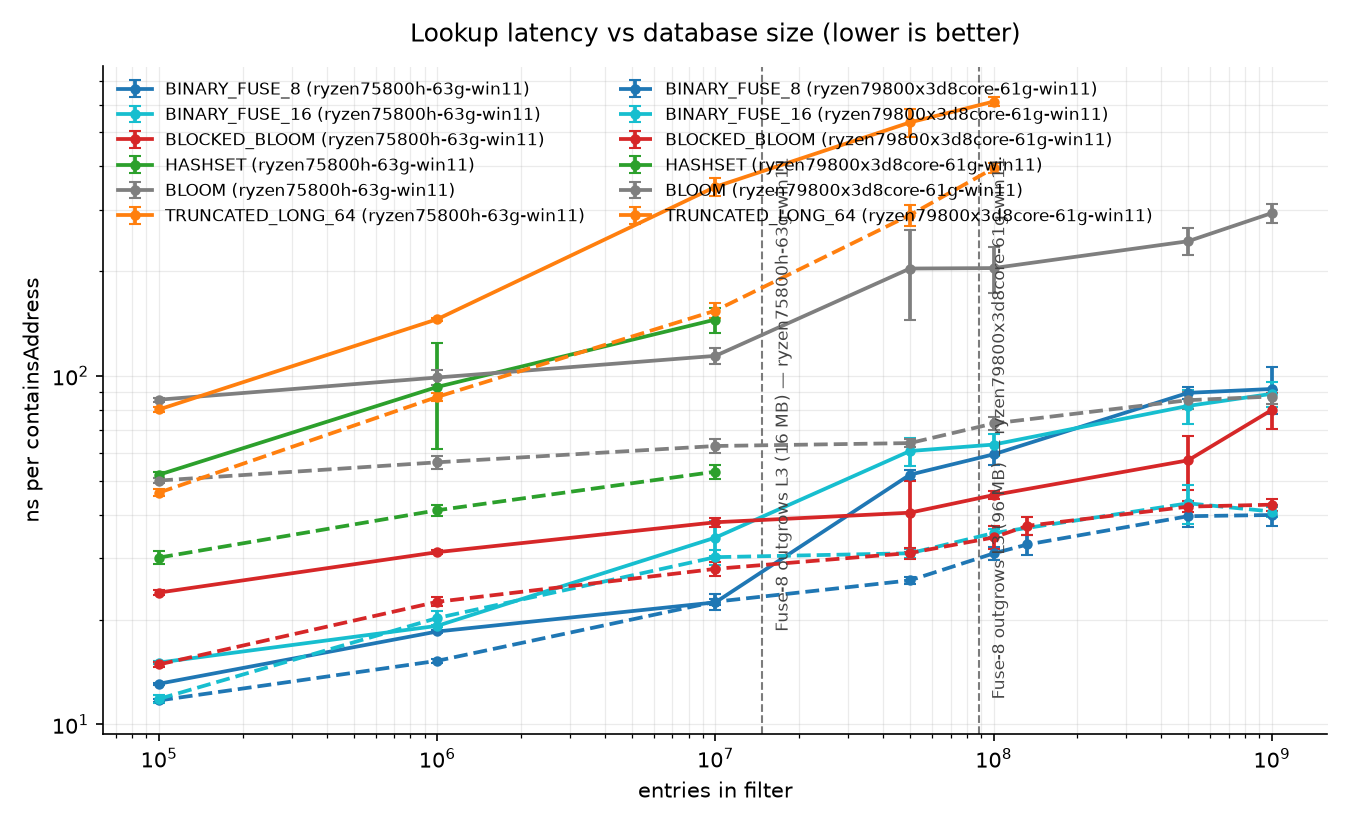
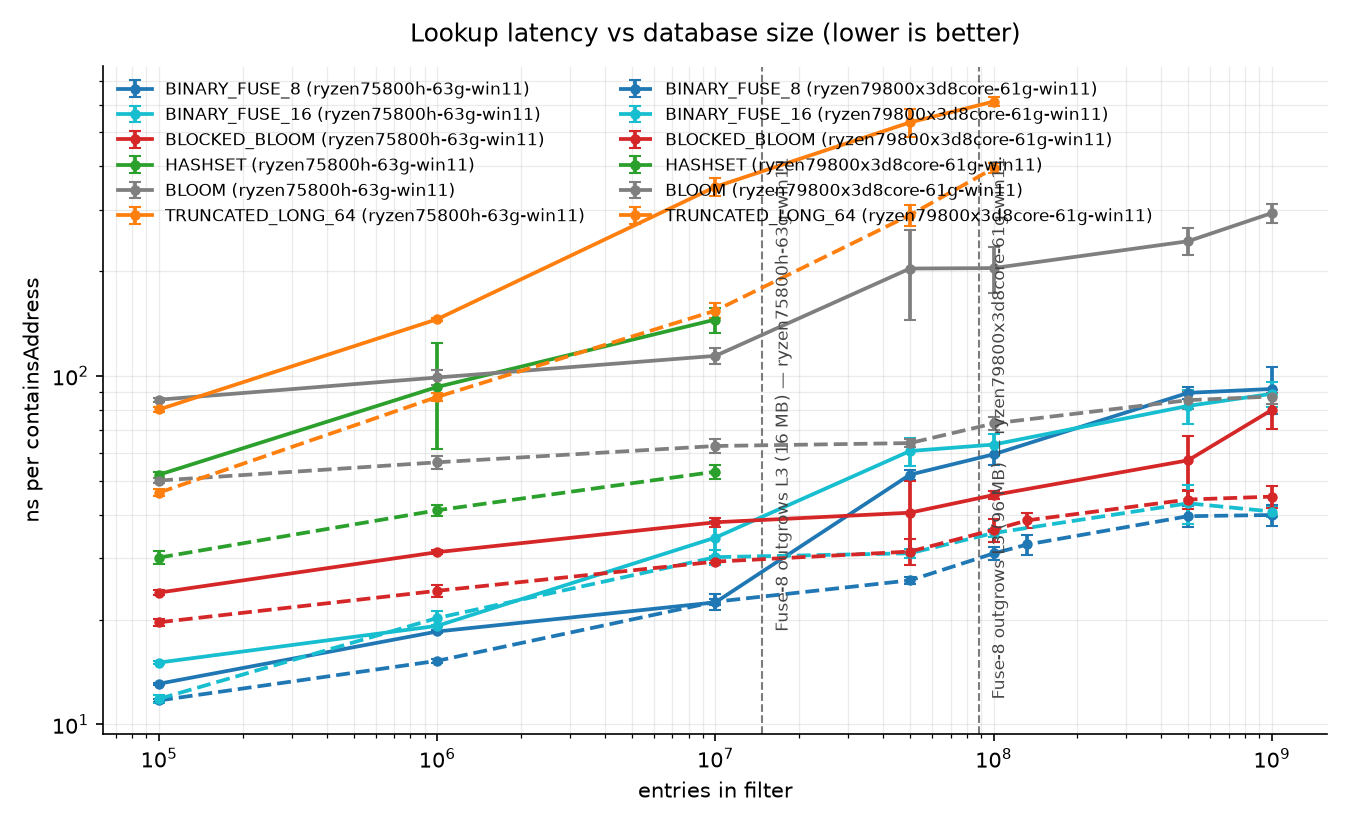
docs(measurements): fastrange re-run - GPU gains, CPU loses, k optimum lands on 6
Re-measured everything the fastrange sizing invalidated, on
ryzen79800x3d8core-61g-win11 / gfx1100. Fuse, Bloom, HashSet and Truncated were
not re-run; they are unaffected.

1. DID THE GPU 100 M POINT IMPROVE? YES - the hypothesis holds.

     entries  BINARY_FUSE_8   BLOCKED_BLOOM 2^n   BLOCKED_BLOOM fastrange
      10 M    0.298 +/- 0.007  0.187 +/- 0.017     0.202 +/- 0.008
     100 M    0.740 +/- 0.014  0.655 +/- 0.032     0.460 +/- 0.013   (-30 %)

   ratio 1.13x -> 1.61x at 100 M. Fuse-8 moved 0.300 -> 0.298 and 0.738 ->
   0.740 across the two runs - an unchanged control, as expected.

   This RETRACTS the previous commit's headline. "The advantage shrinks with
   size on RDNA3, so it is Ampere-specific" was an artefact of our own
   rounding: at 100 M the old geometry inflated the filter to 256 MiB
   (21.47 bits/entry) instead of 131 MiB (11.00). With correct sizing the
   advantage GROWS with filter size on RDNA3 too (1.48x -> 1.61x), same
   direction as NVIDIA (1.73x -> 2.23x). Only the magnitude still differs; the
   Infinity-Cache explanation is downgraded to an untested hypothesis, since
   the last explanation offered for an AMD anomaly was this same artefact.

2. WHERE IS THE k OPTIMUM AT A TRUE 11 BITS/ENTRY? k = 6, as predicted.

     k     4       5       6       7       8      10
     FPR 0.998 % 0.811 % 0.753 % 0.759 % 0.802 % 0.993 %

   k ~ 0.55 x bits/entry gives 6.05; measured optimum is 6. k=6 also has
[…]

Changed region(s): [[0.1244, 0.6667, 0.6844, 0.7879], [0.6844, 0.5758, 0.9644, 0.6667], [0.0933, 0.7879, 0.1556, 0.8182]]

diff --git a/docs/measurements/plot.py b/docs/measurements/plot.py
@@ -346,6 +346,19 @@ def inject(markdown: str, name: str, body: str) -> str:
     return f"{head}\n<!-- Generated by docs/measurements/plot.py — edit the CSV, not this block. -->\n\n{body}\n\n{tail}"
 
 
+def _latest_only(frame: pd.DataFrame, keys: list[str]) -> pd.DataFrame:
+    """Keep only the newest row per measurement point.
+
+    Superseded rows stay in the CSVs for provenance (see README: the blocked-Bloom geometry changed
+    on 2026-07-19, so every earlier blocked-Bloom row describes a differently sized filter). Without
+    this, ``pivot_table``'s ``mean`` would average the old and new geometry into a number that
+    describes neither — the same silent-blending failure the per-machine split exists to prevent.
+    """
+    if frame.empty or "date" not in frame:
+        return frame
+    return frame.sort_values("date").drop_duplicates(subset=keys, keep="last")
+
+
 def main() -> int:
     parser = argparse.ArgumentParser(description=__doc__)
     parser.add_argument("--machine-id", help="restrict to a single machine from machines.json")
@@ -358,6 +371,11 @@ def main() -> int:
     sizing = pd.read_csv(HERE / "filter_sizing.csv")
     build = pd.read_csv(HERE / "filter_build.csv")
     gpu = pd.read_csv(HERE / "gpu_filter_probe.csv")
+
+    # Re-measurements supersede earlier rows for the same point; keep only the newest of each.
+    lookup = _latest_only(lookup, ["machine_id", "backend", "entries"])
+    k_sweep = _latest_only(k_sweep, ["machine_id", "bits_per_entry_effective", "k"])
+    gpu = _latest_only(gpu, ["machine_id", "gpu", "filter", "entries"])
 
     if args.machine_id:
         machines = {k: v for k, v in machines.items() if k == args.machine_id}

diff --git a/docs/performance.md b/docs/performance.md
@@ -174,6 +174,12 @@ Same harness, Light DB, filter size pinned at 256 MiB (16.47 effective bits/entr
 |---|--:|--:|--:|--:|--:|--:|--:|
 | FPR | 5.964 % | 1.378 % | 0.307 % | 0.193 % | 0.184 % | 0.219 % | 0.361 % |
 
+**11.00 bits/entry — ryzen79800x3d8core-61g-win11**
+
+| `k` | 4 | 5 | 6 | 7 | 8 | 10 |
+|---|--:|--:|--:|--:|--:|--:|
+| FPR | 0.998 % | 0.811 % | 0.753 % | 0.759 % | 0.802 % | 0.993 % |
+
 **12.50 bits/entry — ryzen79800x3d8core-61g-win11**
 
 | `k` | 4 | 6 | 7 | 8 | 9 | 10 | 12 |
@@ -376,7 +382,7 @@ non-member probes:
 |---|--:|--:|--:|--:|--:|--:|--:|--:|
 | `BINARY_FUSE_8` | 11.7 | 15.2 | 22.5 | 25.9 | 30.9 | 32.8 | 39.6 | 39.9 |
 | `BINARY_FUSE_16` | 11.8 | 20.2 | 30.2 | 31.0 | 35.4 | — | 43.1 | 40.8 |
-| `BLOCKED_BLOOM` | 14.9 | 22.5 | 27.9 | 31.0 | 34.4 | 37.1 | 42.1 | 42.7 |
+| `BLOCKED_BLOOM` | 19.6 | 24.2 | 29.3 | 31.3 | 36.2 | 38.5 | 44.2 | 45.0 |
 | `HASHSET` | 30.1 | 41.2 | 53.1 | — | — | — | — | — |
 | `BLOOM` | 50.1 | 56.5 | 62.9 | 64.1 | 73.0 | — | 85.2 | 87.2 |
 | `TRUNCATED_LONG_64` | 46.2 | 87.0 | 153.9 | 289.2 | 394.1 | — | — | — |
@@ -1464,21 +1470,24 @@ cost balance shifts):
   |--:|---|--:|--:|--:|
   | 10 M | RTX 3070 Laptop (Ampere) | 1.773 ± 0.003 ms | **1.024 ± 0.016 ms** | **1.73×** |
   | 100 M | RTX 3070 Laptop (Ampere) | 3.015 ± 0.020 ms | **1.351 ± 0.009 ms** | **2.23×** |
-  | 10 M | `gfx1100` / RX 7900 XTX (RDNA3) | 0.300 ± 0.036 ms | **0.187 ± 0.017 ms** | **1.60×** |
-  | 100 M | `gfx1100` / RX 7900 XTX (RDNA3) | 0.738 ± 0.021 ms | **0.655 ± 0.032 ms** | **1.13×** |
+  | 10 M | `gfx1100` / RX 7900 XTX (RDNA3) | 0.298 ± 0.007 ms | **0.202 ± 0.008 ms** | **1.48×** |
+  | 100 M | `gfx1100` / RX 7900 XTX (RDNA3) | 0.740 ± 0.014 ms | **0.460 ± 0.013 ms** | **1.61×** |
 
-  **`BLOCKED_BLOOM` wins on both vendors at both sizes — but only the *direction* is portable, not
-  the trend.** On NVIDIA the advantage *grows* with filter size (1.73× → 2.23×); on RDNA3 it
-  *shrinks* (1.60× → 1.13×). The cross-vendor check therefore confirms the coalescing argument and
-  refutes the "and it pulls away" corollary, which was an Ampere-specific observation.
+  **`BLOCKED_BLOOM` wins on both vendors at both sizes, and the advantage grows with filter size on
+  both.** The AMD rows above are the *fastrange* re-run; the first RDNA3 measurement gave 1.60× →
+  **1.13×** and was written up here as "the trend reverses on RDNA3, so it is Ampere-specific". That
+  conclusion was wrong, and the cause was ours, not the hardware: at 100 M the old power-of-two block
+  rounding inflated the blocked filter to 256 MiB (21.47 bits/entry) instead of the requested 131 MiB
+  (11.00). Sizing it correctly made that point **30 % faster** (0.655 → 0.460 ms) and restored the
+  growing trend, 1.48× → 1.61×. Fuse-8 moved 0.300 → 0.298 and 0.738 → 0.740 ms across the same two
+  runs — an unchanged control, since fuse never used that rounding.
 
-  The likely mechanism is the 7900 XTX's **96 MB Infinity Cache**, which the RTX 3070 Laptop (4 MB
-  L2) has no analogue for. At 10 M both structures are cache-resident there (fuse ~11 MB, blocked
-  ~16 MB) and the blocked layout wins purely on transaction count. At 100 M both spill — but blocked
-  Bloom is the *larger* structure (~256 MB vs ~114 MB), so it spills harder, and its size disadvantage
-  eats most of its coalescing advantage. On a GPU with little cache, coalescing dominates at every
-  size; on a large-cache GPU the two effects compete. Same mechanism as the CPU crossover, one level
-  down the hierarchy.
+  The residual vendor difference is one of *magnitude*, not direction: NVIDIA gains 1.73× → 2.23×,
+  RDNA3 1.48× → 1.61×. A plausible reading is the 7900 XTX's **96 MB Infinity Cache**, which the RTX
+  3070 Laptop (4 MB L2) has no analogue for — with more cache to hide scattered reads behind, the
+  coalescing win is worth proportionally less. That is a hypothesis, not a measurement: it would need
+  a size sweep past the Infinity Cache boundary to test, and the last explanation offered for an AMD
+  anomaly here turned out to be an artefact of our own sizing.
 
   > **Caveat: that 100 M filter is ~2× oversized, and the rounding is ours.** `chooseLogBlocks`
   > rounds the block count *up to a power of two* so the block index can be a shift, so a requested
@@ -1499,8 +1508,16 @@ cost balance shifts):
   > recorded so far. See `TODO.md`; this is the weakest point on the board and the likeliest to
   > improve.
 
-  Either way the GPU margin exceeds the CPU one, where the blocked layout is worth 13-36 % at best
-  and *loses* below ~15 M entries. The measurement is deliberately isolated in its own kernel —
+  **The fastrange change pulls CPU and GPU in opposite directions, and that is the useful lesson.**
+  The same re-sizing that made the GPU 100 M probe 30 % *faster* made every CPU lookup 5-32 %
+  *slower* (§3 table: 100 K 14.9 → 19.6 ns, 1 B 42.7 → 45.0 ns). Both follow from one cause. On the
+  GPU the cost is moving bytes, so halving the structure helps. On the CPU `containsAddress`
+  short-circuits at the first unset bit, so speed tracks *sparsity*, not size — a filter squeezed
+  from 21.5 to 11.0 bits/entry sets more of its bits and runs more probes before it can answer "no".
+  Same change, opposite sign, because the two devices are bound by different things.
+
+  Either way the GPU margin exceeds the CPU one, where the blocked layout now *loses to Fuse-8 at
+  every measured size*. The measurement is deliberately isolated in its own kernel —
   inside `generateKeysKernel_grid` the probe sits behind EC generation and two hash160 chains
   (~57 %/43 % of kernel time, § 6), which would have masked a factor this size down to a few percent.
 
@@ -1510,11 +1527,11 @@ cost balance shifts):
   end-to-end gain will be much smaller than the probe ratio above, since the probe is a minority of
   kernel time — that is exactly what the integration then has to measure.
 
-  **The cross-vendor result argues for keeping `gpuFilterType` selectable rather than hard-switching
-  the default.** Blocked Bloom is ahead everywhere measured, so defaulting to it is defensible — but
-  the payoff ranges from 2.23× down to 1.13× depending on vendor *and* filter size, and on a
-  large-cache GPU at large filter sizes it is close enough that the ~2.2× larger VRAM footprint may
-  not be worth it. That trade is per-device, which is precisely what a config field is for.
+  **After the fastrange fix the case for defaulting to blocked Bloom is considerably stronger.** The
+  payoff is now 1.48–2.23× across both vendors and both sizes, growing with filter size everywhere,
+  and the VRAM cost fell with it — at 100 M the blocked payload is 131 MiB against fuse's ~114 MiB,
+  not the 256 MiB that made the trade look questionable. `gpuFilterType` is still worth having, but
+  as a per-device tuning knob rather than a hedge against the filter being the wrong choice.
 - **Faster hash160 (both chains kept).** Hashing is ~43% (§6), so SHA-256 / RIPEMD-160
   micro-optimisation, or sharing more work between the uncompressed and compressed chains (they share
   the X coordinate; the compressed SEC prefix transform is already reused via `REUSE_FOR_COMPRESSED`),